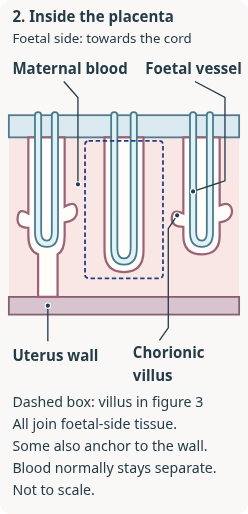
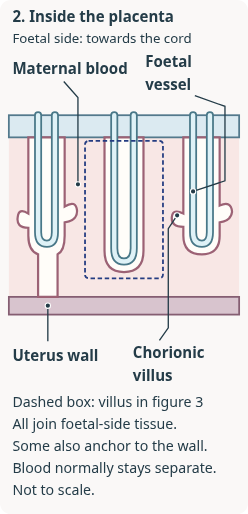
Keep placental label readable across fonts

Changed region(s): [[0.5927, 0.0934, 0.9879, 0.2179]]

diff --git a/docs/catchup-visual-coverage-human-steps.md b/docs/catchup-visual-coverage-human-steps.md
@@ -112,7 +112,7 @@ The Lyme photograph is James Gathany / CDC, [PHIL 9875](https://phil.cdc.gov/Det
 | F172/a4 gene therapy | Explanation and model retain `gene-delivery.svg`; each of three model steps also uses `f172-gene-expression-comparison.svg`. | One fictional four-cell example shows incomplete delivery and expression, without claiming measured effectiveness. OCR and MedlinePlus/FDA sources are in the module. | Relates the low-protein starting state and incomplete target-cell delivery to the example outcome. | All worked stages inspected at 320/1280; sensitive figures hide during independent and after reload, and restore in teaching. | Somatic inheritance and other approaches such as editing or changing expression remain text-only. |
 | F174/a4 nutritional measurements | Explanation paragraphs 1–2 use `f174-bmi-composition.svg` and `f174-intake-biomarker.svg`; model step 1 uses BMI, steps 2–3 intake and biomarkers. | Equal height and mass imply equal BMI; fictional bar portions differ. Absorption, use and sampling conditions can affect comparisons; no real data are claimed. OCR and CDC sources are in the module. | Makes the limits of BMI and intake records visible alongside the corresponding facts. | Explanation and all stages checked at 320/1280; sensitive figures hide during independent/reload and restore in teaching. | Illustrative examples do not establish individual nutritional status or describe all biomarker factors. |
 | F174/a1 nutrients | Explanation and both model steps use `meals-energy-iron.svg`; model step 2 also uses `f174-iron-haemoglobin-oxygen.svg`. | Meals are fictional and iron supports haemoglobin production in developing red cells, which carry oxygen. No measured nutrient data or guaranteed clinical effect is implied; OCR and NHLBI sources are in the module. | Separates energy from an iron source and traces iron to haemoglobin and oxygen transport. | Both stages checked at 320/1280; sensitive copies hide during independent/reload and return in teaching. | Roles of other nutrients and other causes of iron deficiency remain unillustrated. |
-| F175/a2 placenta | Explanation paragraph 1: `f175-placenta-orientation.svg`; paragraph 2: `f175-placenta-many-villi.svg` and `f175-placenta-villus.svg`. Model step 1 presents all three in order; steps 2–3 each have their own adjacent villus view. Recaps 0–1 reuse all three. | **Accuracy:** checked against [OpenStax anatomy and physiology 2e §28.2](https://openstax.org/books/anatomy-and-physiology-2e/pages/28-2-embryonic-development) for location, separate circulations and gas direction, and [NCBI Bookshelf on the placenta](https://www.ncbi.nlm.nih.gov/books/NBK53256/) for villi attached to foetal-side tissue, including some that also anchor to the uterine wall. The simplified drawings exaggerate the placental barrier and are not to scale. The [OCR F175 specification](https://www.ocr.org.uk/Images/697578-specification-cambridge-advanced-national-in-human-biology.pdf) covers foetal development and antenatal care; this exchange diagram supports the existing lesson rather than claiming this histological detail is a specific requirement. | **Teaching relevance:** the first view locates the placenta, uterus, foetus and cord; the turned middle view shows villi attached to foetal-side tissue, some also anchoring to the uterine wall; the enlarged villus shows maternal blood outside and a foetal capillary within. The middle view uses thin unheaded leaders with contrasting endpoints to identify maternal blood, foetal vessel, villus and uterus wall; the enlarged view distinguishes these from thick gas arrows. | **Readability:** teaching figures visually checked at 320 and 1280 px; arrowheads and leader endpoints inspected separately. Assessment-sensitive copies are covered by the focused Human Biology regression. | The intermediate schematic shows a few villi and omits most branching; it does not quantify surface area. The earlier unorientated figures remain withheld. |
+| F175/a2 placenta | Explanation paragraph 1: `f175-placenta-orientation.svg`; paragraph 2: `f175-placenta-many-villi.svg` and `f175-placenta-villus.svg`. Model step 1 presents all three in order; steps 2–3 each have their own adjacent villus view. Recaps 0–1 reuse all three. | **Accuracy:** checked against [OpenStax anatomy and physiology 2e §28.2](https://openstax.org/books/anatomy-and-physiology-2e/pages/28-2-embryonic-development) for location, separate circulations and gas direction, and [NCBI Bookshelf on the placenta](https://www.ncbi.nlm.nih.gov/books/NBK53256/) for villi attached to foetal-side tissue, including some that also anchor to the uterine wall. The simplified drawings exaggerate the placental barrier and are not to scale. The [OCR F175 specification](https://www.ocr.org.uk/Images/697578-specification-cambridge-advanced-national-in-human-biology.pdf) covers foetal development and antenatal care; this exchange diagram supports the existing lesson rather than claiming this histological detail is a specific requirement. | **Teaching relevance:** the first view locates the placenta, uterus, foetus and cord; the turned middle view shows villi attached to foetal-side tissue, some also anchoring to the uterine wall; the enlarged villus shows maternal blood outside and a foetal capillary within. The middle view uses thin unheaded leaders with contrasting endpoints to identify maternal blood, foetal vessel, villus and uterus wall; the enlarged view distinguishes these from thick gas arrows. | **Readability:** teaching figures visually checked at 320 and 1280 px; arrowheads and leader endpoints inspected separately. The middle-view labels were reflowed and checked with native, Poppins, DejaVu and system font metrics. Assessment-sensitive copies are covered by the focused Human Biology regression. | The intermediate schematic shows a few villi and omits most branching; it does not quantify surface area. The earlier unorientated figures remain withheld. |
 | F175/a4 IVF/ICSI | Explanation and model: `ivf-icsi.svg` compares bringing sperm and oocyte together with injection, followed by conditional transfer and implantation. | Injection is shown as an IVF method; later transfer and implantation are conditional. Checked against lesson; external specification review pending. | Directly supports fertilisation method and uncertainty of later implantation; the model's bypass of oviduct transport is not pictured. | Redesigned to fit; checked at 320 and 1280 px without horizontal scrolling. | Reproductive anatomy would clarify the oviduct bypass. |
 | F176/a2 neurones | Explanation: `action-potential-ions.svg` compares sodium entry in depolarisation with potassium leaving during repolarisation. Model: existing synapse visual is provided through `visualFrom`; step 6 additionally shows `threshold-comparison.svg` alongside the comparison of potentials. | Arrow directions and stages match the lesson; channel timing is simplified. The worked graph plots −65 and −58 mV against a −55 mV threshold with a linear axis. Checked against lesson; external specification review pending. | Supports the ionic explanation. The graph supports the worked threshold comparison. The existing synapse model is visible at the opening worked step, but its stages are student-controlled rather than automatically synchronised with the worked steps. | New figures checked at 320 and 1280 px; labels and both ion stages and the graph are visible without scrolling. | Review whether students can connect the separately controlled synapse model to each of the first five worked steps; the graph compares potentials, not the cellular mechanism of reduced inhibition. |
 
